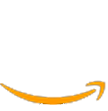
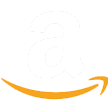
Update
-Referral icons less pixelated
-Pricing calc updated

Changed region(s): [[0.0, 0.6757, 1.0, 0.9459]]

diff --git a/js/calculator.js b/js/calculator.js
@@ -157,6 +157,30 @@ function calculator() {
             ecommerceMonCost = 12.00;
         }
 
+        if (document.getElementById("discountCode").value == "Ref") {
+            websiteCost = 382.50;
+            pageCost = 6.80;
+            contentCost = 51.00;
+            blogCost = 51.00;
+            analyticsCost = 21.25;
+            hostCost = 5.10;
+            domainFee = 8.50;
+            liveChatcost = 8.50;
+            ecommerceCost = 255.00;
+            ecommerceMonCost = 10.20;
+        } else {
+            websiteCost = 450.00;
+            pageCost = 8.00;
+            contentCost = 60.00;
+            blogCost = 60.00;
+            analyticsCost = 25.00;
+            hostCost = 6.00;
+            domainFee = 10.00;
+            liveChatcost = 10.00;
+            ecommerceCost = 300.00;
+            ecommerceMonCost = 12.00;
+        }
+
     pageRes = (pageCost * pageQty) + (1.5 * pageQty);
     contentRes = contentCost * contentQty;
     blogRes = blogCost * blogQty;
